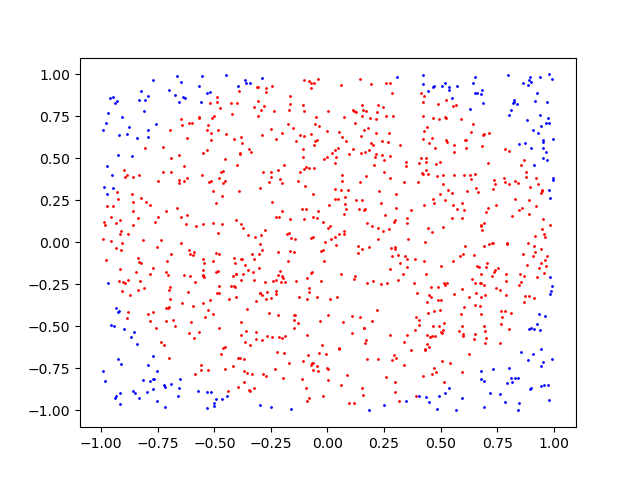
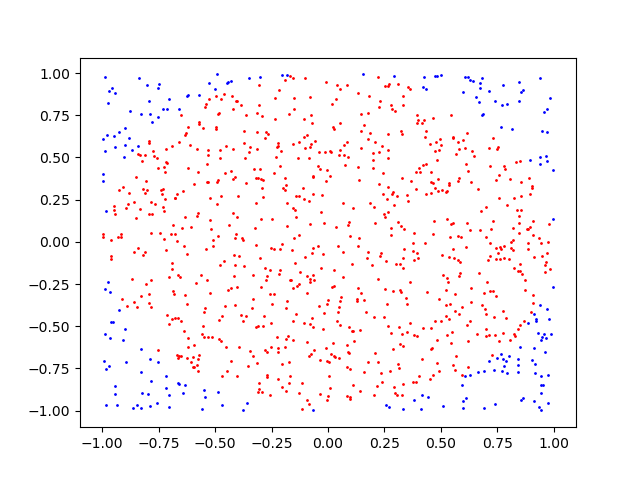
fix

diff --git a/MA3_HT26/test_MA3_4.py b/MA3_HT26/test_MA3_4.py
@@ -6,7 +6,7 @@ from MA3 import *
 class Test(unittest.TestCase):
 
     def test_sphere_volume_parallel(self):
-        n = 1000000
+        n = 20000000
         d = 11
         np = 2
         start = pc()
@@ -19,7 +19,7 @@ class Test(unittest.TestCase):
         print(app_vol)
         stop = pc()
         par = stop - start
-
+        print(seq, par)
         self.assertLess(1.6, app_vol)
         self.assertLess(app_vol, 2.2)
         self.assertLess(par, seq)

diff --git a/MA3_HT26/MA3.py b/MA3_HT26/MA3.py
@@ -40,6 +40,7 @@ def approximate_pi(n):
     plt.scatter(x_in, y_in, color = 'red', s=1)
     plt.scatter(x_out, y_out, color = 'blue', s=1) 
     plt.savefig(f"pi_{n}.png")
+    plt.gca().set_aspect('equal')
     plt.show()
     plt.close()
     print('Värdet av n:\n', n, 'Approximerat värdet av pi:\n', approx_pi)
